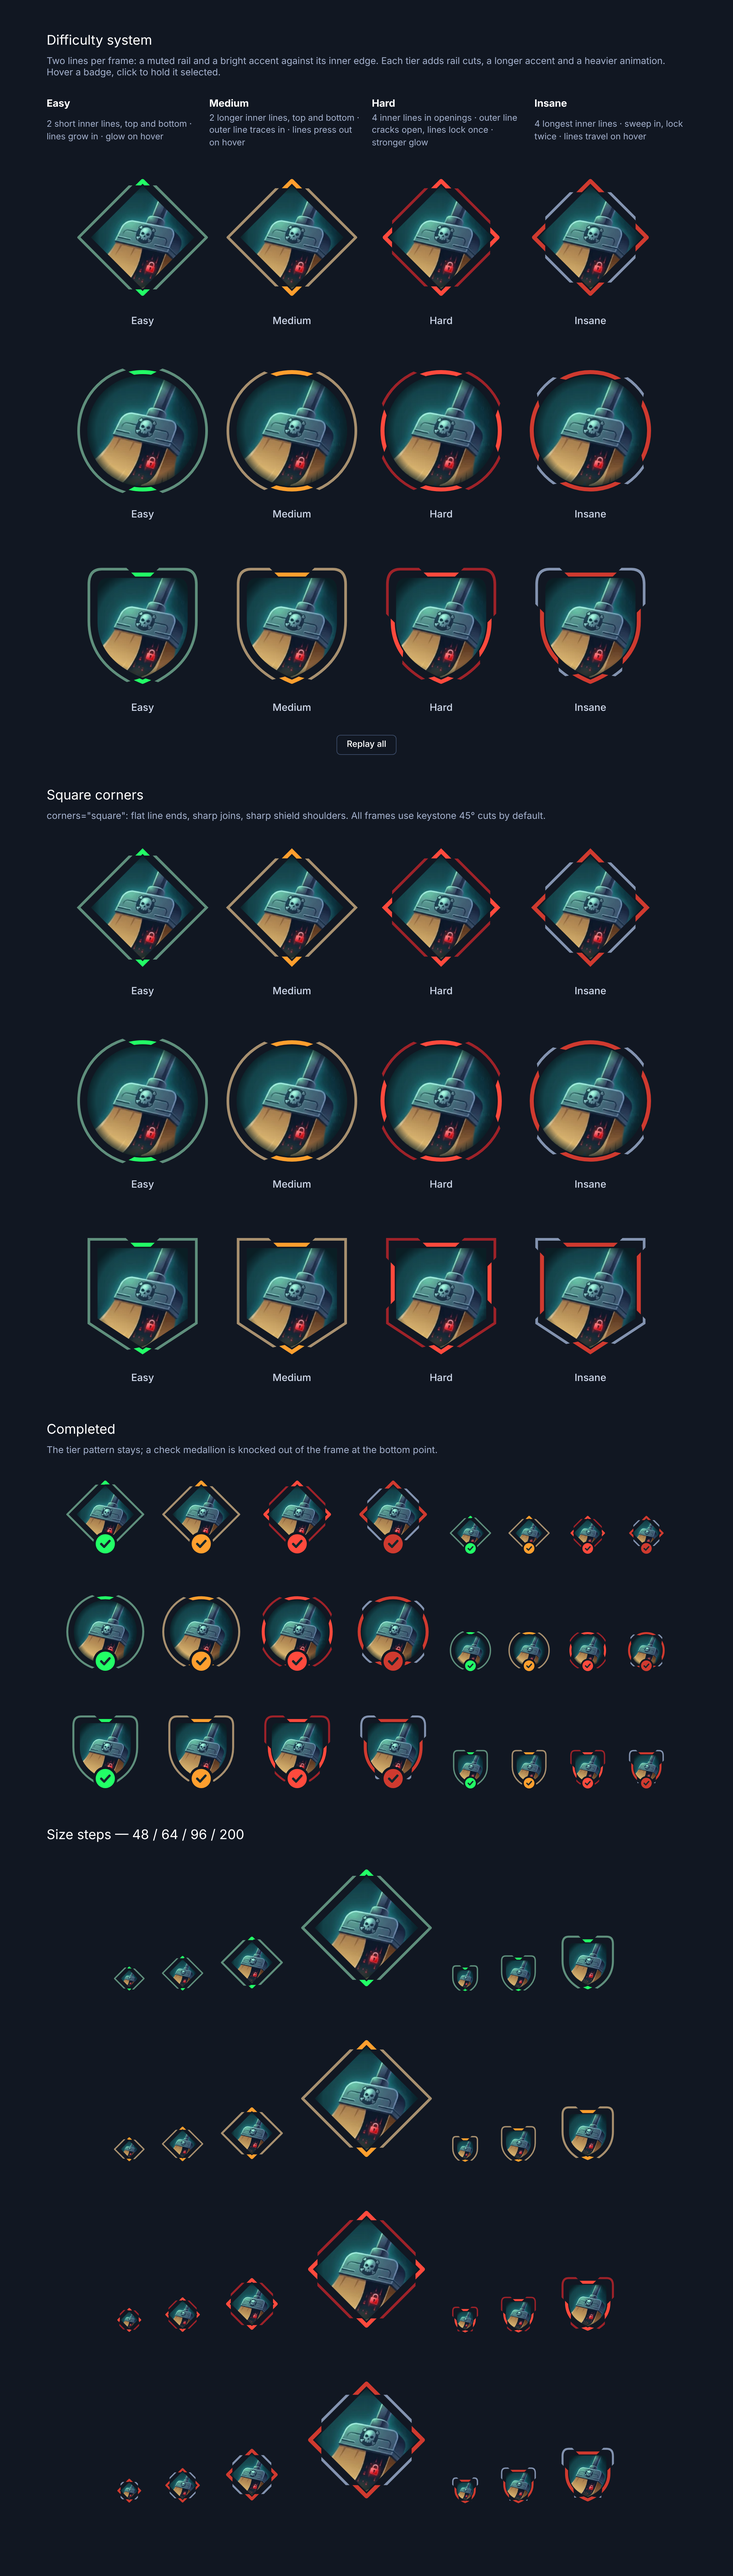
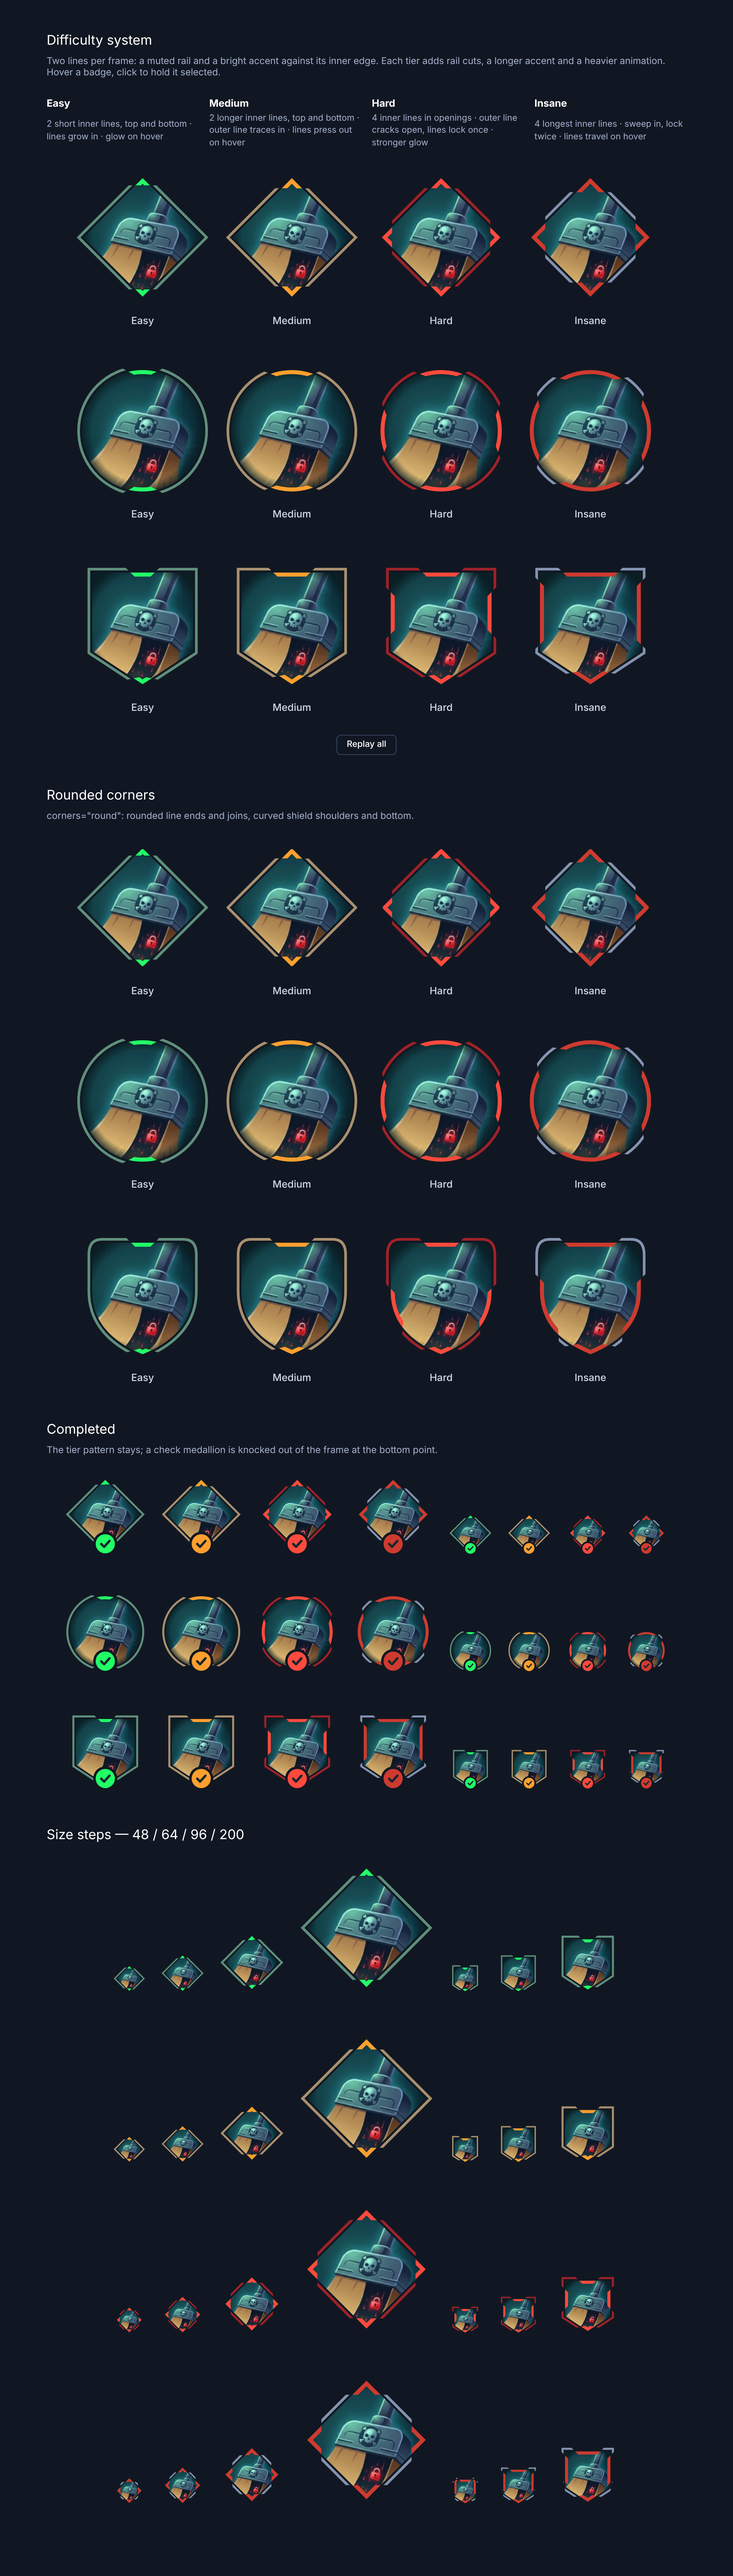
Difficulty frame: square corners by default, larger art
Claude-Session: https://claude.ai/code/session_011nxYfuYnhHf6ffMbWhu3mX

diff --git a/components/difficulty-frame/difficulty-frame.js b/components/difficulty-frame/difficulty-frame.js
@@ -27,8 +27,8 @@
  *   cuts        keystone | keystone-soft | angled | square   (default: keystone) — slanted ends shared
  *               by the rail and the inner line: keystone 45° (the inner line is the cut-out piece
  *               pushed straight in), keystone-soft 30°, angled 45° splayed the other way
- *   corners     round | square                   (default: round) — square gives flat line ends,
- *               sharp joins and a shield with sharp shoulders
+ *   corners     square | round                   (default: square) — round gives rounded line ends,
+ *               rounded joins and a shield with curved shoulders and bottom
  *
  * Methods
  *   play()      replay the entrance
@@ -62,7 +62,6 @@
   const SPACING = 0.75;        // space between the rail's inner edge and the inner line (× stroke), never under 1.5px
   const STRAIGHT_BOOST = 1.6;  // inner lines on straight or curved stretches run this much longer than chevrons
   const BLOCK_WEIGHT = 1.5;    // thickness of a resting inner block (× stroke)
-  const ART_CLEAR = 1;         // dark ring between accent and art (× stroke)
 
   // Each outline is drawn in a -1..1 box. `sides` are the compass bearings (0 = up,
   // clockwise) of its four anchors: top, right, bottom, left. The matching spot on
@@ -326,7 +325,7 @@
       const step = [...STEPS].reverse().find((s) => size >= s.min);
       const stroke = Number(this.getAttribute('stroke')) || cssNumber(this, '--htb-frame-stroke') || step.stroke;
       const accentW = stroke; // both lines share one weight
-      const square = this.getAttribute('corners') === 'square';
+      const square = this.getAttribute('corners') !== 'round';
       // Slanted cut ends: lean > 0 narrows the opening going inward (keystone: the inner
       // line is the cut-out piece pushed straight in), < 0 widens it (splayed).
       const LEANS = { angled: -1, keystone: 1, 'keystone-soft': Math.tan(Math.PI / 6) };
@@ -352,7 +351,8 @@
       const blockW = stroke * BLOCK_WEIGHT;
       const blockOffset = stroke / 2 + space + blockW / 2; // block centreline, inward from the rail's
       const accentR = r - blockOffset * shape.ring;
-      const artR = r - (stroke / 2 + space + accentW + stroke * ART_CLEAR) * shape.ring;
+      // The art runs right up to the gap inside the rail, under the recessed blocks.
+      const artR = r - (stroke / 2 + space) * shape.ring;
       const accent = cssColor(tier.accent);
       const rail = cssColor(tier.rail);
       const id = `htb-clip-${Math.random().toString(36).slice(2, 9)}`;

diff --git a/components/difficulty-frame/index.html b/components/difficulty-frame/index.html
@@ -36,8 +36,8 @@
   <div id="large"></div>
   <p class="actions"><button type="button" data-replay-all>Replay all</button></p>
 
-  <h2>Square corners</h2>
-  <p class="note">corners="square": flat line ends, sharp joins, sharp shield shoulders. All frames use keystone 45° cuts by default.</p>
+  <h2>Rounded corners</h2>
+  <p class="note">corners="round": rounded line ends and joins, curved shield shoulders and bottom.</p>
   <div id="square"></div>
 
   <h2>Completed</h2>
@@ -56,7 +56,7 @@
       `<figure>${badge(`shape="${s}" difficulty="${l}"`)}<figcaption>${l[0].toUpperCase() + l.slice(1)}</figcaption></figure>`).join('')}</div>`).join('');
 
     document.getElementById('square').innerHTML = shapes.map((s) => `<div class="row">${levels.map((l) =>
-      `<figure>${badge(`shape="${s}" difficulty="${l}" corners="square"`)}<figcaption>${l[0].toUpperCase() + l.slice(1)}</figcaption></figure>`).join('')}</div>`).join('');
+      `<figure>${badge(`shape="${s}" difficulty="${l}" corners="round"`)}<figcaption>${l[0].toUpperCase() + l.slice(1)}</figcaption></figure>`).join('')}</div>`).join('');
 
     document.getElementById('completed').innerHTML = shapes.map((s) => `<div class="row">${levels.map((l) =>
       badge(`shape="${s}" difficulty="${l}" size="120" completed static`)).join('')}${levels.map((l) =>
